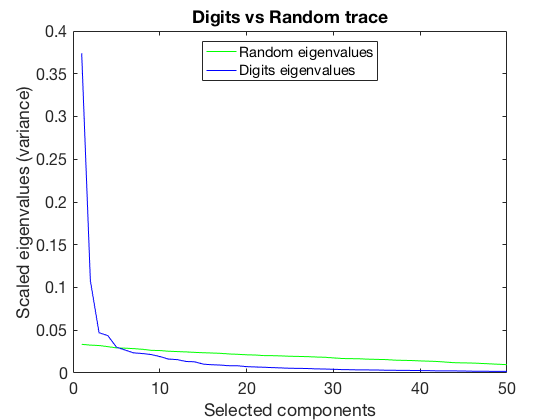
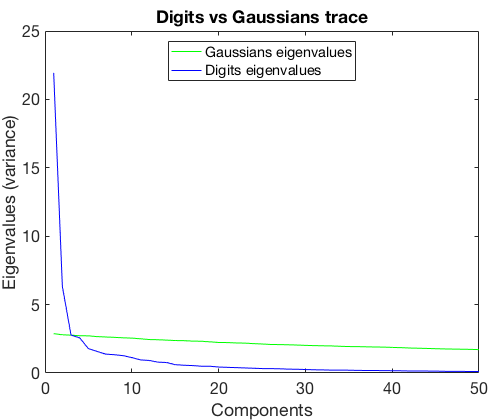
Found out rec error and cumsum are linear with the right definition of mse. Changed images on the report, included those with components on quantiles

diff --git a/report/main.tex b/report/main.tex
@@ -299,38 +299,51 @@
   eigenvector matrix, $s$ selected components; and $X_s=V^{t}X$ the data
   projected on those components. If $s=d$, then $VV^{t}=I$ (full rank orthogonal matrix).
   Then, $\hat{X} = VX_s = VV^{t}X = X$. 
-  
   \begin{figure}[h]
+    \begin{adjustwidth}{-1cm}{-1cm}
     \centering
-    \begin{subfigure}[t]{0.4\linewidth}
-      \includegraphics[width=1\linewidth]{./lab3/PCA/digits_vs_random_trace.png}
+    \begin{subfigure}[t]{0.3\linewidth}
+      \includegraphics[width=1\linewidth, height=4.4cm]{./lab3/PCA/digits_vs_random_trace.png}
       \label{fig:trace_compared}
     \end{subfigure}
-    \begin{subfigure}[t]{0.3\linewidth}
-      \includegraphics[width=1\linewidth, height=4.75cm]{./lab3/PCA/mean_three.png}
-      \label{fig:mean_three}
+    \begin{subfigure}[t]{0.29\linewidth}
+      \includegraphics[width=1\linewidth, height=4.4cm]{./lab3/PCA/digits_vs_random_recMSE.png}
+      \caption{Digits dataset}
+      \label{fig:digits_rec}
     \end{subfigure}
-    \caption{First task of the exercise: computing the mean three (right), and 
-    plotting the first 50 eigenvalues (left). They have been compared
-  to those of a random, multivariate Gaussian distribution, in green.}
-    \label{fig:first_task}
+    \begin{subfigure}[t]{0.3\linewidth}
+      \includegraphics[width=1\linewidth, height=4.3cm]{./lab3/PCA/regression.png}
+      \caption{Reconstruction MSE linear fit}
+      \label{fig:regression}
+    \end{subfigure}
+    \end{adjustwidth}
+    \caption{Plot of the reconstruction $MSE$ for each number of selected $k$ components (red),
+    against the sum of the variance of the last $256-k$ components (blue), on 
+  different datasets. Right figure plots their linear fit.}
+    \label{fig:rec_vs_cumsum}
   \end{figure}
+  
 
   \begin{figure}[h]
     \centering
-    \begin{subfigure}[t]{0.49\linewidth}
-      \includegraphics[width=1\linewidth]{./lab3/PCA/mosaics/PC_1_4_small.png}
-      \caption{Few PC. $MSE(rec) > 0.9; variance < 12\%$}
+    \hfill
+    \begin{subfigure}[t]{0.4\linewidth}
+      \includegraphics[width=\linewidth, height=4.3cm]{./lab3/PCA/mosaics/PC_1_4_small.png}
+      %\caption{Few PC. $MSE(rec) > 0.9; variance < 12\%$}
       \label{fig:few_pc}
     \end{subfigure}
-    \begin{subfigure}[t]{0.49\linewidth}
-      \includegraphics[width=1\linewidth]{./lab3/PCA/mosaics/PC_16_256_small.png}
-      \caption{Many PC. $MSE(rec) < 0.75; variance > 45\%$}
+    \hfill
+    \begin{subfigure}[t]{0.4\linewidth}
+      \includegraphics[width=\linewidth,height=4.3cm]{./lab3/PCA/mosaics/PC_16_256_small.png}
+      %\caption{Many PC. $MSE(rec) < 0.75; variance > 45\%$}
       \label{fig:many_pc}
     \end{subfigure}
+    \hfill \mbox{}
     \caption{Reconstruction of four different samples (columns) with increasing
       number of components (rows). Top row of each table contains the 
-    original samples. Vertical labels indicate the number of components}
+    original samples. Vertical labels indicate the number of components. On the
+    left panel, MSE ranges between $0.25$ and $0.9$, for 1 and 4 PC respectively.
+  With 16 or more PC, MSE is always below $0.75$, reaching $0$ for 256 components.}
     \label{fig:threes_pc}
   \end{figure}
 
@@ -346,29 +359,31 @@
   rather than linear.
 
   \begin{figure}[h]
-    \begin{adjustwidth}{-1cm}{-1cm}
     \centering
-    \begin{subfigure}[t]{0.3\linewidth}
-      \includegraphics[width=1\linewidth]{./lab3/PCA/rec_vs_invsum_gauss.png}
-      \caption{Gaussians dataset}
-      \label{fig:gauss_rec}
+    \hfill
+    \begin{subfigure}[t]{0.15\linewidth}
+      \includegraphics[width=\linewidth, height=5.5cm]{./lab3/PCA/PC_interpret/PC1+PC5.png}
+      \label{fig:few_pc}
     \end{subfigure}
-    \begin{subfigure}[t]{0.3\linewidth}
-      \includegraphics[width=1\linewidth, height=4.7cm]{./lab3/PCA/rec_vs_invsum_digits.png}
-      \caption{Digits dataset}
-      \label{fig:digits_rec}
+    \hfill
+    \begin{subfigure}[t]{5.1cm}
+      \includegraphics[width=\linewidth, height= 5.1cm]{./lab3/PCA/PC_interpret/quantiles.png}
+      \label{fig:few_pc}
     \end{subfigure}
-    \begin{subfigure}[t]{0.3\linewidth}
-      \includegraphics[width=1\linewidth, height=4.7cm]{./lab3/PCA/regression_digits.png}
-      \caption{Reconstruction MSE linear fit}
-      \label{fig:regression}
+    \hfill
+    \begin{subfigure}[t]{5.0cm}
+      \includegraphics[width=\linewidth, height = 5.0cm]{./lab3/PCA/PC_interpret/Y1_X5.png}
+      \label{fig:many_pc}
     \end{subfigure}
-    \end{adjustwidth}
-    \caption{Plot of the reconstruction $MSE$ for each number of selected $k$ components (red),
-    against the sum of the variance of the last $256-k$ components (blue), on 
-  different datasets. Right figure plots their linear fit.}
-    \label{fig:rec_vs_cumsum}
+    \hfill \mbox{}
+    \caption{Reconstruction of four different samples (columns) with increasing
+      number of components (rows). Top row of each table contains the 
+    original samples. Vertical labels indicate the number of components. On the
+    left panel, MSE ranges between $0.25$ and $0.9$, for 1 and 4 PC respectively.
+  With 16 or more PC, MSE is always below $0.75$, reaching $0$ for 256 components.}
+    \label{fig:threes_pc}
   \end{figure}
+
   
 
   % still needs improvement. If I cannot expand the pages and add the
@@ -385,45 +400,11 @@
   almost the same result, as seen on \autoref{fig:many_pc}
   
 
-  \begin{figure}[h]
-    \centering
-    \begin{subfigure}[t]{0.16\linewidth}
-      \includegraphics[width=1\linewidth]{./lab3/PCA/PC_interpret/PC1.png}
-      \caption{PC 1}
-      \label{fig:PC1}
-    \end{subfigure}
-    \begin{subfigure}[t]{0.16\linewidth}
-      \includegraphics[width=1\linewidth]{./lab3/PCA/PC_interpret/PC1_02.png}
-      \caption{0.2}
-      \label{fig:quant02}
-    \end{subfigure}
-    \begin{subfigure}[t]{0.16\linewidth}
-      \includegraphics[width=1\linewidth]{./lab3/PCA/PC_interpret/PC1_04.png}
-      \caption{0.4}
-      \label{fig:quant04}
-    \end{subfigure}
-    \begin{subfigure}[t]{0.16\linewidth}
-      \includegraphics[width=1\linewidth]{./lab3/PCA/PC_interpret/PC1_06.png}
-      \caption{0.6}
-      \label{fig:quant06}
-    \end{subfigure}
-    \begin{subfigure}[t]{0.16\linewidth}
-      \includegraphics[width=1\linewidth]{./lab3/PCA/PC_interpret/PC1_08.png}
-      \caption{0.8}
-      \label{fig:quant08}
-    \end{subfigure}
-    \begin{subfigure}[t]{0.16\linewidth}
-      \includegraphics[width=1\linewidth]{./lab3/PCA/PC_interpret/PC1_1.png}
-      \caption{1}
-      \label{fig:quant1}
-    \end{subfigure}
-    \caption{First principal component plotted (left) along with threes corresponding
+    First principal component plotted (left) along with threes corresponding
       to different quantiles, on the data distribution over that PC. Quantile below
     the image. % remove the following
     This component models cursivity
-  }
-    \label{fig:quantiles}
-  \end{figure}
+  
 
 
 

diff --git a/Session3/PCA/PCA_digits.m b/Session3/PCA/PCA_digits.m
@@ -94,8 +94,8 @@ set(gca,'FontSize', 16);
 %% Regression
 % note: second col (y axis) is the MSE error, third the cumsum
 % regression: first target (x axis), later output (y axis)
-plotregression(digits_error(:,3), digits_error(:,2), 'Digits - Rec. Error fit'),
-xlabel("1 - Sum(k-eigvals)"), ylabel("Reconstruction Error")
+plotregression(digits_error(:,3), digits_error(:,2), 'Rec. Error - last eigvals fit'),
+xlabel("Sum(k:end) eigvals"), ylabel("Reconstruction Error")
 set(gca,'FontSize', 16);
 
 %% Random data %%
@@ -106,29 +106,27 @@ title('Reconstruction MSE vs eigenvalues variance (Gaussians)')
 set(gca,'FontSize', 16);
 
 %% Regression
-plotregression(g_error(:,3), g_error(:,2), 'Digits - Rec. Error fit'),
-xlabel("1 - Sum(k-eigvals)"), ylabel("Reconstruction Error")
+plotregression(g_error(:,3), g_error(:,2), 'Gaussians - Rec. Error fit'),
+xlabel("Sum(k:end) eigvals"), ylabel("Reconstruction Error")
 set(gca,'FontSize', 16);
 
 %% Random trace vs digit trace
-[~, ~, evals_threes] = mypca(threes', 50);
-[~, ~, evals_gauss]  = mypca(gauss, 50);
+[~, ~, evals_threes] = mypca(threes', 50, false);
+[~, ~, evals_gauss]  = mypca(gauss, 50, false);
 plot(1:50, evals_gauss, 'g', 1:50, evals_threes, 'b')
-legend("Random eigenvalues", "Digits eigenvalues", 'Location', 'north'),
-xlabel('Selected components'), ylabel('Scaled eigenvalues (variance)'),
-title("Digits vs Random trace"),
+legend("Gaussians eigenvalues", "Digits eigenvalues", 'Location', 'north'),
+xlabel('Components'), ylabel('Eigenvalues (variance)'),
+title("Digits vs Gaussians trace"),
 set(gca, 'FontSize', 16)
 
-%% rec error vs cumsum - digits
-figure;
-digits_cumsum = error_by_pc(threes,1,256,5, false);
-title('Reconstruction MSE vs eigenvalues variance (Digits)')
-set(gca,'FontSize', 14);
-%% rec error vs cumsum - gauss
-figure;
-gauss_cumsum = error_by_pc(gauss, 1,256,5, false);
-title('Reconstruction MSE vs eigenvalues variance (Digits)')
-set(gca,'FontSize', 14);
+%% Digits vs random rec MSE
+plot(g_error(:,1), g_error(:,3)./g_error(1,3), 'g', ...
+digits_error(:,1), digits_error(:,3)/digits_error(1,3), 'b'),
+legend(' Gaussians MSE', 'Digits MSE', 'Location', 'north')
+xlabel('Selected Components'),
+title('Digits rec. MSE vs Gaussians rec. MSE (scaled)')
+set(gca,'FontSize', 16),ylim([0 1])
+
 
 %%%%%%%%%%%%%%%%%%%%%%%%%%%%%%%%%%
 %%  Component meaning           %%
@@ -193,23 +191,23 @@ for i = 1:length(vals)
     end
 end
 
+%%%%%%%%%%%%%%%%%%%%%%%
 %% Cherrypicking good threes for the first component
 % Just PC1 eigvec
-ax = gca;
-outerpos = ax.OuterPosition;
-ti = ax.TightInset; 
-left = outerpos(1) + ti(1);
-bottom = outerpos(2) + ti(2);
-ax_width = outerpos(3) - ti(1) - ti(3);
-ax_height = outerpos(4) - ti(2) - ti(4);
-ax.Position = [left bottom ax_width ax_height];
+
+[ha, pos] = tight_subplot(2, 1, [0.07 0.01],[.01 .07],[.01 .01]);
+
+axes(ha(1))   
 print_digit(Et' * 3, 1),    
-set(gca,'XTick',[], 'Ytick', [], 'Visible', 'off'); % remove X and Y labels
-%first_com = Et(comp,:) * (threes - mean(threes, 2));
+set(gca,'XTick',[], 'Ytick', []), title('PC 1 ', 'FontSize', 16); % remove X and Y labels
+axes(ha(2))
+print_digit(Et' * 3, 5),  
+set(gca,'XTick',[], 'Ytick', []), title('PC 5', 'FontSize', 16); % remove X and Y labels
+%first_com = Et(comp,:) * (threes - mean(threes, 2),);
 %vals = [0.3 0.4 0.5 0.6 0.7 0.8 0.9 1];
 %quant = quantile(first_com, vals);
 
-% all the others
+%% all the others
 col = 3
 for i=1:5
     print_digit(threes, indexes(i, col))

diff --git a/Session3/PCA/error_by_pc.m b/Session3/PCA/error_by_pc.m
@@ -16,10 +16,10 @@ end
     i = 0;
     for q = pc_start:pc_step:pc_end
         i = i + 1;
-        [Et, reduced, eigvals] = mypca(data, q);
+        [Et, reduced, eigvals, eig_trace] = mypca(data, q, false); % don't scale
         [~, error] = reconstruct_mypca(reduced, Et, data);
         if inv_sum == true
-            pc_table(i, :) = [q, error,  1 - sum(eigvals)];
+            pc_table(i, :) = [q, error,  eig_trace - sum(eigvals)];
             var_string = '1 - cumsum(var)';
         else
             pc_table(i, :) = [q, error, sum(eigvals)];

diff --git a/Session3/PCA/mypca.m b/Session3/PCA/mypca.m
@@ -1,4 +1,5 @@
-function [Et, reducedX, eigvals] = mypca(data, q, scale)   % q: desired dimensions
+function [Et, reducedX, eigvals, eig_trace] = mypca(data, q, scale)  
+% q: desired dimensions
     if nargin < 3
         scale = true;
     end
@@ -12,5 +13,6 @@ function [Et, reducedX, eigvals] = mypca(data, q, scale)   % q: desired dimensio
     end
     Et = eigvec';                   % eigvecs: p (original dims) * q
     reducedX = Et * (data - mean(data,2));
+    eig_trace = trace(all_eigvals);
 end
  

diff --git a/Session3/PCA/reconstruct_mypca.m b/Session3/PCA/reconstruct_mypca.m
@@ -4,6 +4,8 @@ function [Xhat, error] = reconstruct_mypca(reduced, Et, original)
 % Xhat: reoconstructed original data (d * N)
 % error: MSE(X - Xhat)
 Xhat = (Et' * reduced) + mean(original, 2);  
-error = sqrt(mean(mean((original - Xhat).^2)));
+% error = sqrt(mean(mean((original - Xhat).^2)));
+error = mean(sum((original - Xhat).^2));
+%error = mse(original-  Xhat);
 % should actually be (mean(sum(.))) no sqrt
 end

diff --git a/mejoras.md b/mejoras.md
@@ -1,0 +1,5 @@
+# Sessión 1
+- Reducir tamaño (fuente) de las tablas
+- Incluir una imagen de bayesian sin validation set (explicar tiempo)
+- Una imagen de todos los algoritmos con ruido
+
